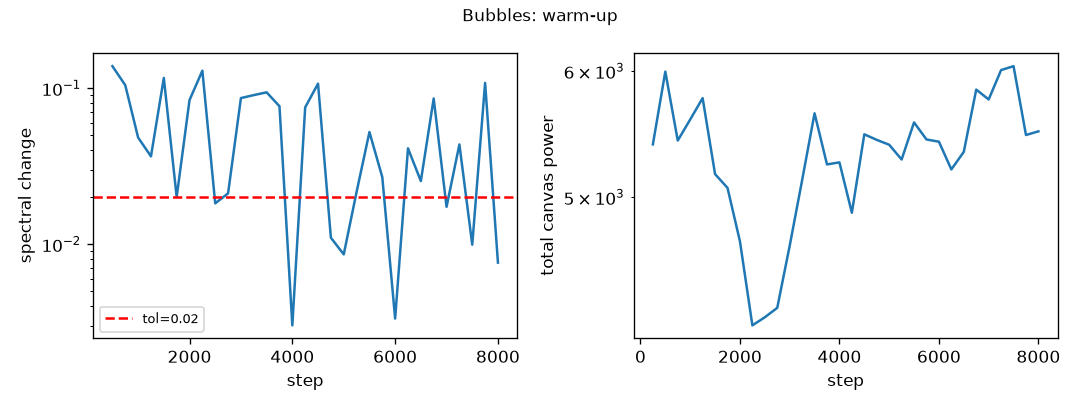
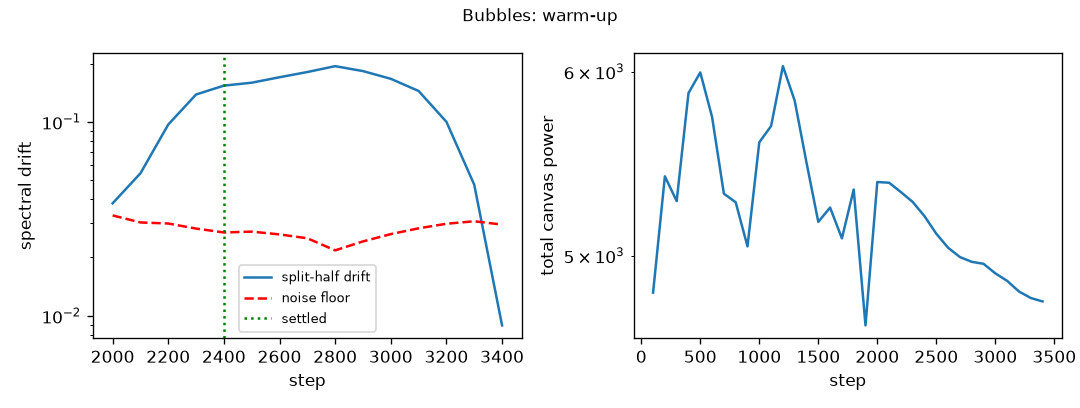
Complete E0: all four checks measured, plots and report regenerated
E0.4 finishes with SideWinder at 2500 steps. Three of four configs settle
genuinely; Pop is floor-limited and reported as unresolved rather than settled.

Warm-up lands at 2000-2500 steps for every config that resolved, while their
canvas memory times span 1.8 to 52.6 steps. Warm-up is therefore set by pattern
formation, not by canvas memory, and the spec's 30k cap is roughly 12x more than
these configs need.

Throughput for the four re-run configs is uncontended and supersedes the
phase-1 figures for them; the other 29 remain contaminated and are not used.

Claude-Session: https://claude.ai/code/session_01XZx5BFD3qvd8gx3m4b1EK3

diff --git a/closure_rig/report.py b/closure_rig/report.py
@@ -96,17 +96,34 @@ def main(argv=None):
              f"{worst[1]['E0.3_propagator']['max_rel_error']:.2e}\n")
     L.append(f"- Best config: **{best[0]}**, {best[1]['E0.3_propagator']['max_rel_error']:.2e}\n")
 
+    warm = {n: r['E0.4_warmup'] for n, r in runs.items() if 'E0.4_warmup' in r}
+    if warm:
+        L.append('\n## E0.4 Warm-up\n')
+        L.append('| config | memory time | warm-up steps | in memory times | evals | verdict |')
+        L.append('|---|---|---|---|---|---|')
+        for n, w in sorted(warm.items(), key=lambda kv: kv[1]['memory_time_steps']):
+            verdict = ('**floor-limited**' if w.get('floor_limited')
+                       else ('settled' if w['settled'] else '**cap hit**'))
+            L.append(f"| {n} | {w['memory_time_steps']:.1f} | {w['warmup_steps']} | "
+                     f"{w['warmup_in_memory_times']:.0f} | "
+                     f"{w.get('evaluations_before_firing', '-')} | {verdict} |")
+        L.append('\nFloor-limited means the drift test passed on its first evaluation, '
+                 'so the figure is the earliest step the window can credit rather than a '
+                 'measured settling time.\n')
+
     L.append('\n## Per-config table\n')
-    L.append('| config | particles/px | memory time (steps) | steps/sec | propagator max rel err | warm-up | settled |')
-    L.append('|---|---|---|---|---|---|---|')
+    L.append('| config | particles/px | memory time (steps) | steps/sec | propagator max rel err | warm-up |')
+    L.append('|---|---|---|---|---|---|')
     for name, r in sorted(runs.items()):
         w = r.get('E0.4_warmup')
+        wcol = '-'
+        if w:
+            wcol = (f"{w['warmup_steps']} (floor-limited)" if w.get('floor_limited')
+                    else (str(w['warmup_steps']) if w['settled'] else 'cap hit'))
         L.append(f"| {name} | {r['meta']['particles_per_pixel']:.2f} | "
                  f"{r['meta']['memory_time_steps']:.1f} | "
                  f"{r['E0.1_throughput']['steps_per_sec']:.1f} | "
-                 f"{r['E0.3_propagator']['max_rel_error']:.1e} | "
-                 f"{w['warmup_steps'] if w else '-'} | "
-                 f"{('yes' if w['settled'] else 'CAP HIT') if w else '-'} |")
+                 f"{r['E0.3_propagator']['max_rel_error']:.1e} | {wcol} |")
 
     path = os.path.join(args.out, 'E0_REPORT.md')
     open(path, 'w').write('\n'.join(L) + '\n')

diff --git a/results/E0_REPORT.md b/results/E0_REPORT.md
@@ -1,0 +1,78 @@
+# E0: sanity and calibration
+
+Configs measured: **33**. Renderer: `llvmpipe (LLVM 20.1.2, 256 bits)`, GL `4.5 (Core Profile) Mesa 25.2.8-0ubuntu0.24.04.2`.
+
+> **Software-rendered run.** Throughput below is CPU rasterisation and must not be used as the cost baseline for any speedup claim. Re-run E0.1 on a GPU for that number. Every other E0 result is renderer-independent.
+
+## E0.2 Blend check
+
+- `brush.xy = sum(vel * k^2)`, `brush.w = sum(k^2)`, `brush.z = sum(0.01 * k^2)`.
+
+- Velocity recovered from `brush.xy / brush.w`: **exact** (max deviation 4.7e-10 across all offsets).
+
+- Splat quad is 1.54 px wide; the Gaussian is sigma = 0.25 px, point-sampled at 1-4 pixel centres.
+
+- Deposit per particle varies **728x** with sub-pixel position (CV 124%), so `brush.w` carries 39% of the information of a true count.
+
+- This test is config-independent (no config uniform reaches brush.frag), so it is reported once rather than per config.
+
+
+## E0.3 Propagator
+
+Shader vs closed-form Fourier update, channels `.xy`, k up to 1000.
+
+
+- Worst config: **Wreath**, relative L2 error 3.16e-06
+
+- Best config: **Critters**, 6.92e-08
+
+
+## E0.4 Warm-up
+
+| config | memory time | warm-up steps | in memory times | evals | verdict |
+|---|---|---|---|---|---|
+| Critters | 1.8 | 2000 | 1108 | 11 | settled |
+| Bubbles | 17.5 | 2400 | 137 | 15 | settled |
+| SideWinder | 52.6 | 2500 | 47 | 16 | settled |
+| Pop | 200.0 | 1000 | 5 | 1 | **floor-limited** |
+
+Floor-limited means the drift test passed on its first evaluation, so the figure is the earliest step the window can credit rather than a measured settling time.
+
+
+## Per-config table
+
+| config | particles/px | memory time (steps) | steps/sec | propagator max rel err | warm-up |
+|---|---|---|---|---|---|
+| 9LeafClovers | 0.57 | 17.5 | 8.5 | 9.0e-07 | - |
+| Adrift | 0.57 | 52.6 | 8.6 | 2.8e-06 | - |
+| Angles | 0.57 | 17.5 | 7.5 | 9.0e-07 | - |
+| Batarangs | 0.57 | 55.6 | 10.3 | 3.1e-06 | - |
+| Bramble | 0.57 | 17.5 | 10.5 | 9.0e-07 | - |
+| Bubbles | 0.57 | 17.5 | 9.6 | 9.0e-07 | 2400 |
+| Butterflies | 0.57 | 16.1 | 9.3 | 7.7e-07 | - |
+| Cilia | 0.57 | 17.5 | 9.7 | 9.0e-07 | - |
+| Circuits | 0.57 | 88.3 | 7.9 | 2.5e-06 | - |
+| Critters | 0.57 | 1.8 | 11.1 | 6.9e-08 | 2000 |
+| Curls | 0.57 | 17.5 | 10.6 | 9.0e-07 | - |
+| Dandelions | 0.57 | 52.6 | 9.3 | 2.8e-06 | - |
+| Ferns | 0.57 | 16.1 | 8.6 | 7.7e-07 | - |
+| Growth | 0.57 | 100.0 | 8.6 | 6.0e-07 | - |
+| HungryHungryHippos | 0.57 | 55.6 | 9.5 | 3.1e-06 | - |
+| LavaLamp | 0.57 | 16.1 | 7.7 | 7.7e-07 | - |
+| Meandering | 0.57 | 52.6 | 10.3 | 2.8e-06 | - |
+| Nettle | 0.57 | 200.0 | 9.1 | 9.9e-07 | - |
+| Pop | 0.57 | 200.0 | 9.3 | 9.9e-07 | 1000 (floor-limited) |
+| RingOfFire | 0.57 | 8.1 | 9.3 | 7.5e-07 | - |
+| RippleTree | 0.57 | 16.1 | 10.9 | 7.7e-07 | - |
+| Salt | 0.57 | 52.6 | 9.3 | 2.8e-06 | - |
+| Searching | 0.57 | 55.6 | 9.8 | 3.1e-06 | - |
+| SideWinder | 0.57 | 52.6 | 10.4 | 2.8e-06 | 2500 |
+| Streamers | 0.57 | 52.6 | 10.9 | 2.8e-06 | - |
+| TV | 0.57 | 16.1 | 7.9 | 7.7e-07 | - |
+| Tadpole | 0.57 | 111.1 | 10.3 | 6.3e-07 | - |
+| Vacuoles | 0.57 | 17.5 | 8.7 | 9.0e-07 | - |
+| Veins | 0.57 | 55.6 | 9.2 | 3.1e-06 | - |
+| Web | 0.57 | 52.6 | 10.9 | 2.8e-06 | - |
+| Wreath | 0.57 | 62.5 | 9.3 | 3.2e-06 | - |
+| Zipper | 0.57 | 83.3 | 10.1 | 7.7e-07 | - |
+| _Default | 0.57 | 16.1 | 9.9 | 7.7e-07 | - |
